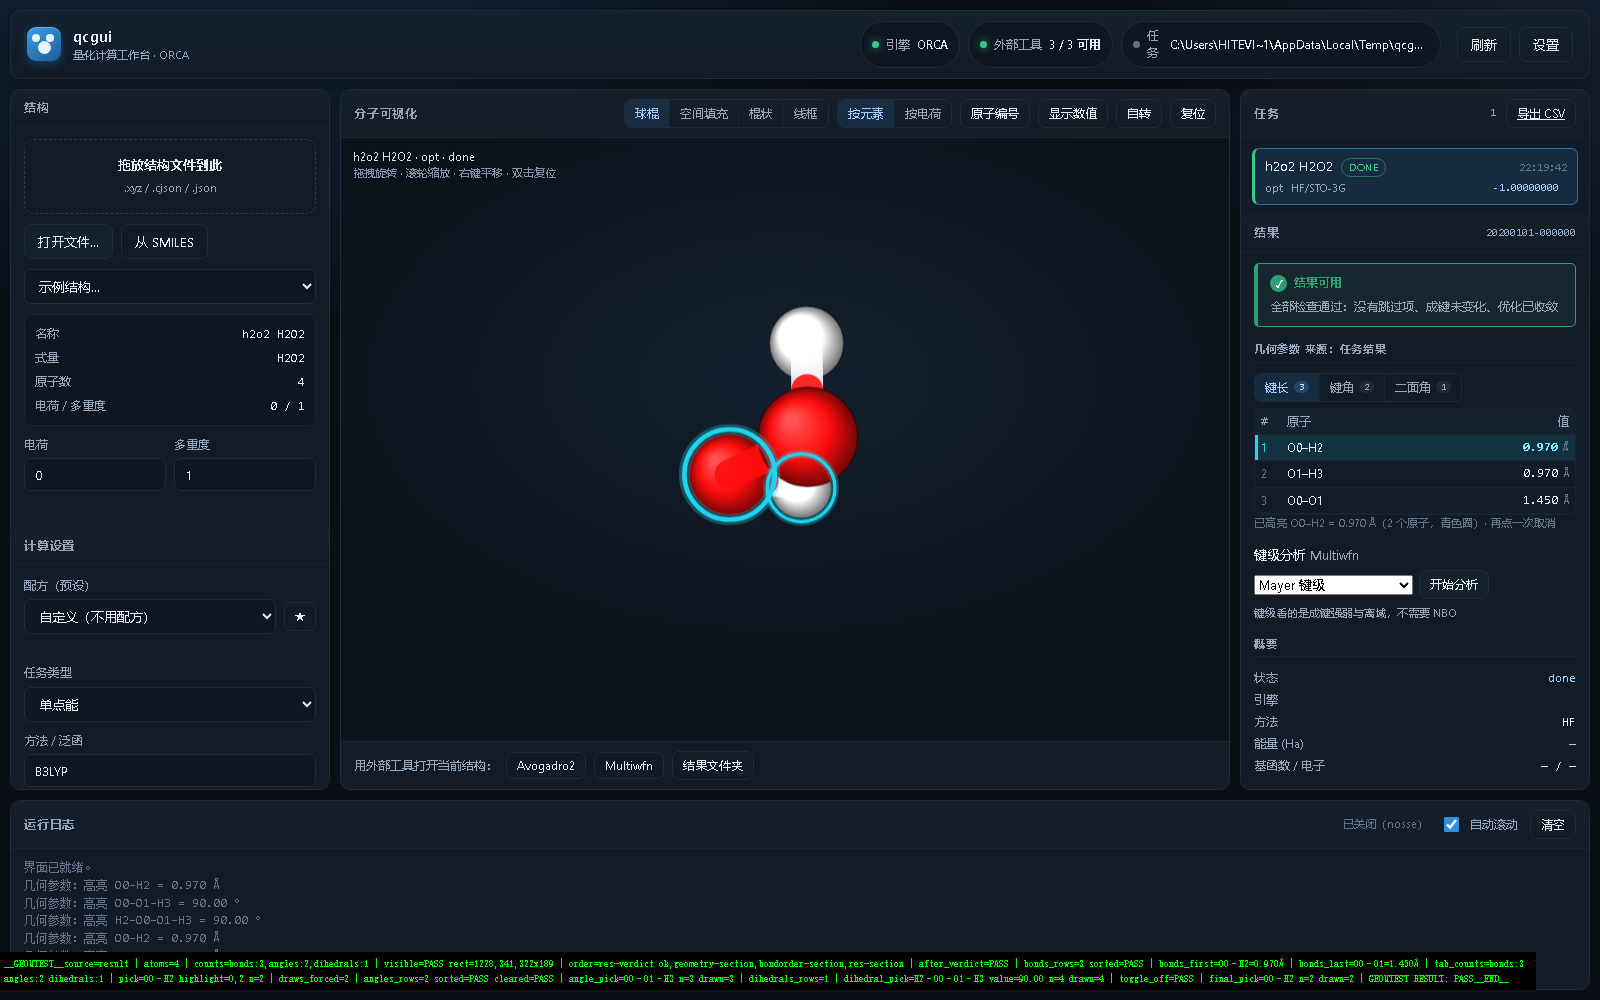
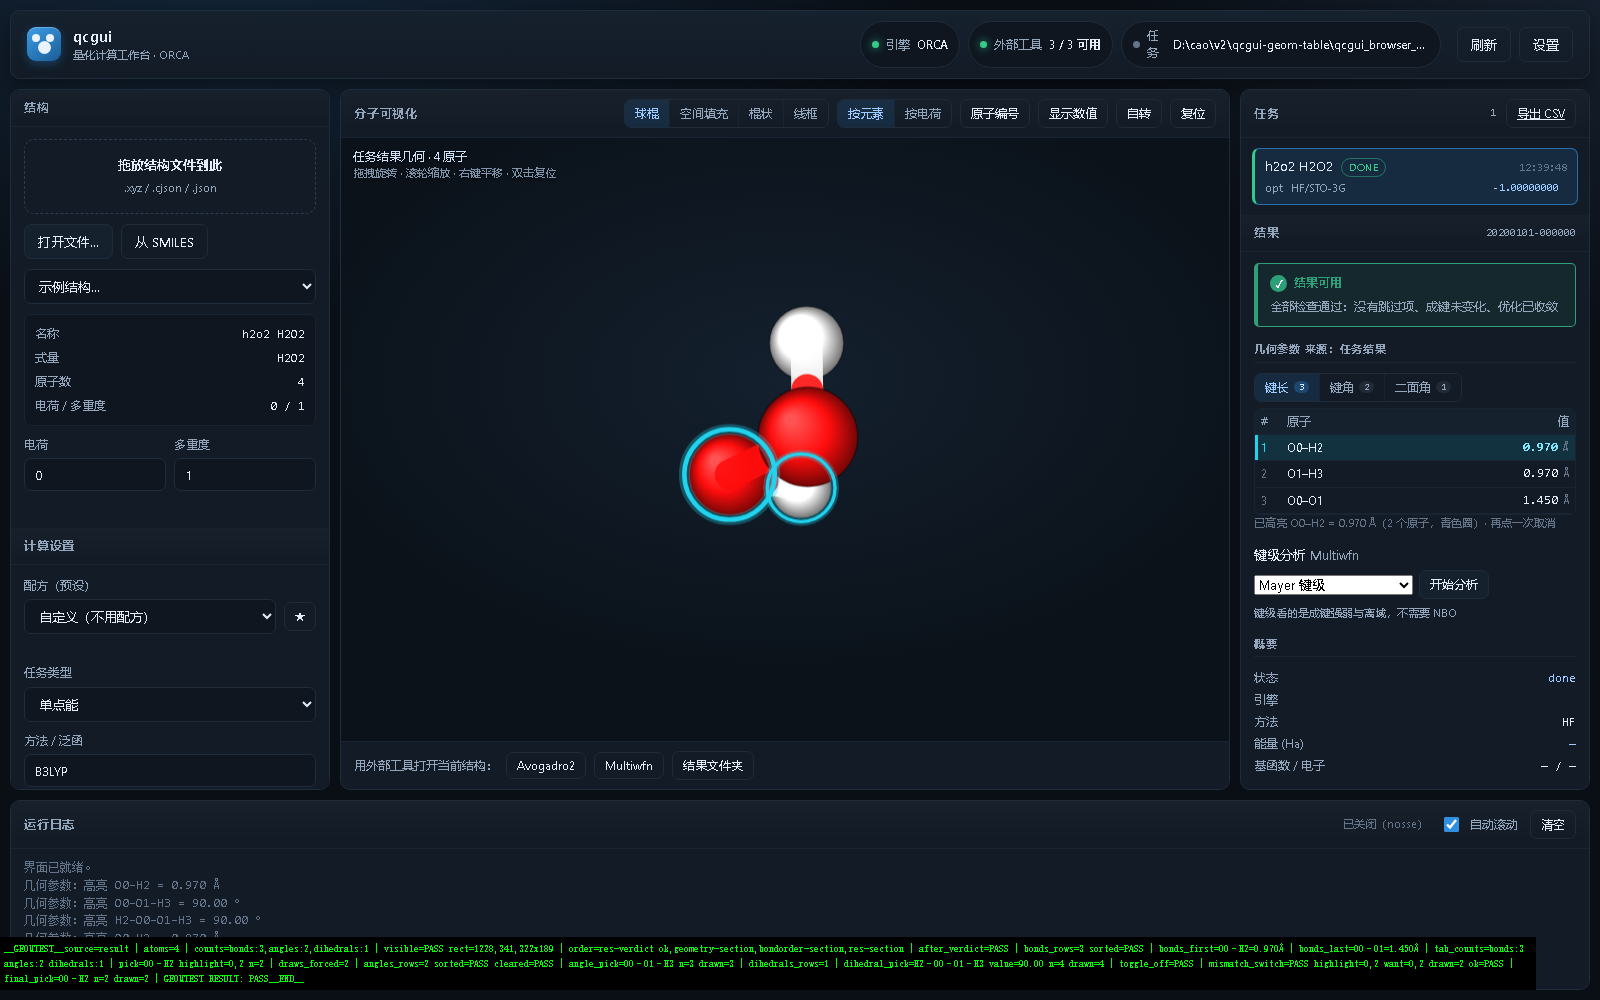
feat(geom-table): 补浏览器测试编码兜底 + 「表/3D 错位」覆盖，重拍截图
恢复提交 f6ad848 里的几何参数表功能本身是完整的（后端 geometry_parameters、
接口 POST /api/geometry/parameters、前端三表格/按值排序/点击高亮、
viewer.highlightAtoms/_drawHighlight 都在），但从未验证过。本次收口修掉
验证中发现的两处问题，不放松任何断言：

- tests/test_web_browser.py：诊断输出加编码兜底。这两条浏览器用例的 print
  里有 Å，Windows 控制台默认 GBK 会抛 UnicodeEncodeError —— 实测会让本应
  通过的用例在断言之前就 ERROR（pytest -s 下必现），看起来像功能坏了。
  同时补上 viewerShowsGeometry 错位守卫的断言（新增覆盖，非放宽）。
- app.js：geomtest 钩子补「表与 3D 不是同一套几何」的检查；最终状态改为
  按状态补点击，保证截图里高亮环真的亮着（原来无条件再点一次会把行点灭）。
- tools/shot_geometry_table.py：用项目自己的 qcgui.configure_stdio() 兜底打印。
- figures/geometry_table.png：按当前代码重拍，图里有三页签计数、按值升序的
  行、以及 3D 里两个青色高亮环 + GEOMTEST RESULT: PASS。

验证方式与结果：

1) pytest tests/test_web_browser.py tests/test_geometry_params.py
   tests/test_viewer_js.py -q  → 34 passed
   （唯一未过的是 test_bond_order_ui_in_real_browser，本机
   PermissionError 写 %LOCALAPPDATA%\qcgui\jobs，属环境问题）

2) 真浏览器关键路径（tests/test_web_browser.py::test_geometry_table_in_real_browser
   / ::test_geometry_table_falls_back_to_the_loaded_structure）：
   counts=bonds:3,angles:2,dihedrals:1 / bonds_rows=3 sorted=PASS /
   draws_forced=2 / dihedral_pick=H2–O0–O1–H3 value=90.00 n=4 drawn=4 /
   toggle_off=PASS / mismatch_switch=PASS ... ok=PASS / GEOMTEST RESULT: PASS

3) 变异验证（证明新增断言有效，不是空转）：把 app.js 里
   `if (!viewerShowsGeometry(source))` 改成 `if (false && ...)` 后重跑，
   得到 mismatch_switch=FAIL highlight=0 want=0,2 drawn=1 → 测试确实报错。

4) 全量回归（$env:PATH 加上 .qcenv\mpi\Library\bin）：
   pytest tests -q → 172 passed, 6 failed, 1 skipped
[…]

Changed region(s): [[0.0, 0.93, 0.9688, 0.992], [0.75, 0.031, 0.875, 0.062], [0.2188, 0.155, 0.25, 0.186]]

diff --git a/qcgui/web/static/app.js b/qcgui/web/static/app.js
@@ -574,9 +574,28 @@ async function runGeometryTableTest() {
       lines.push(`toggle_off=${on > 0 && state.viewer.highlightedAtoms.length === 0 ? 'PASS' : 'FAIL'}`);
     }
 
-    // 最后留在"高亮着"的状态：同一条 URL 用 --screenshot 拍到的就是用户看到的样子
-    const final = clickRow(0);
-    lines.push(`final_pick=${final ? final.dataset.label : 'none'}`
+    // --- 表与 3D 不是同一套几何时，必须先把查看器切过去（否则高亮会指错原子）---
+    // 这是真实会发生的状态：拖过扫描曲线、或停在轨迹某一帧时，查看器里显示的
+    // 并不是 result.geometry。这里把查看器换成一个完全不相干的分子来制造错位，
+    // 点一行后应当看到查看器被切回表的那套几何、且高亮画在**正确的**原子上。
+    state.viewer.setMolecule({ symbols: ['Ar'], coords: [[0, 0, 0]] });
+    if (clickTab('bonds') && readRows().length) {
+      const want = readRows()[0].atoms;
+      clickRow(0);
+      const switched = state.viewer.symbols.length === state.geomSource.symbols.length;
+      const got = state.viewer.highlightedAtoms.join(',');
+      lines.push(`mismatch_switch=${switched ? 'PASS' : 'FAIL'}`
+        + ` highlight=${got} want=${want}`
+        + ` drawn=${state.viewer.highlightDrawCount}`
+        + ` ok=${switched && got === want && state.viewer.highlightDrawCount > 0 ? 'PASS' : 'FAIL'}`);
+    }
+
+    // 最后留在"高亮着"的状态：同一条 URL 用 --screenshot 拍到的就是用户看到的样子。
+    // 上面的错位检查点过一次行，可能刚好把高亮又切回"已取消"，所以按状态补一次
+    // ——不能无条件再点一次，那样反而会把已经亮着的行点灭（截图证据就没了）。
+    if (!state.viewer.highlightedAtoms.length) clickRow(0);
+    const finalRow = section().querySelector('tbody tr.geom-row.active');
+    lines.push(`final_pick=${finalRow ? finalRow.dataset.label : 'none'}`
       + ` n=${state.viewer.highlightedAtoms.length} drawn=${state.viewer.highlightDrawCount}`);
     lines.push('GEOMTEST RESULT: '
       + (lines.some((l) => l.includes('FAIL')) ? 'FAIL' : 'PASS'));

diff --git a/tests/test_web_browser.py b/tests/test_web_browser.py
@@ -448,6 +448,22 @@ def _dump_geomtest(url: str, timeout: int = 180) -> str:
     return match.group(1)
 
 
+def _print_diagnostics(text: str) -> None:
+    """打印几何参数测试的诊断行（``a | b | c`` 转成多行）。
+
+    为什么不能直接 ``print``：这些行里有 ``Å``/``°``，而 Windows 控制台默认是
+    GBK —— 直接打印会抛 ``UnicodeEncodeError``。实测：那会让**一条本该通过的
+    测试在断言之前就 ERROR 掉**（``pytest -s`` 时必然发生），看起来像功能坏了。
+    诊断输出降级成替代字符就行，**断言才是测试的正文**。
+    """
+    block = "    " + "\n    ".join(p.strip() for p in text.split(" | "))
+    try:
+        print(block)
+    except UnicodeEncodeError:
+        encoding = getattr(sys.stdout, "encoding", None) or "utf-8"
+        print(block.encode(encoding, "replace").decode(encoding, "replace"))
+
+
 def test_geometry_table_in_real_browser():
     """「几何参数」表必须在真页面里渲染出来、能点、能高亮 —— 而且看得见。
 
@@ -468,7 +484,7 @@ def test_geometry_table_in_real_browser():
     finally:
         server.close()
 
-    print("    " + "\n    ".join(p.strip() for p in text.split(" | ")))
+    _print_diagnostics(text)
 
     # 期望值直接来自纯几何层 —— 浏览器里看到的必须和后端算的一致
     expected = geometry_parameters(GEOM_FIXTURE["symbols"], GEOM_FIXTURE["coords"])
@@ -503,6 +519,11 @@ def test_geometry_table_in_real_browser():
     assert "angle_pick=" in text and "n=3 drawn=3" in text, text
     assert "dihedral_pick=H2–O0–O1–H3 value=90.00 n=4 drawn=4" in text, text
     assert "toggle_off=PASS" in text, text
+    # 表与 3D 错位时（拖过扫描曲线 / 停在轨迹某帧）点一行：必须先把查看器切到
+    # 表的那套几何，高亮才落在正确的原子上 —— 否则就是"高亮指错原子"那类错误
+    mismatch = next(p.strip() for p in text.split(" | ")
+                    if p.strip().startswith("mismatch_switch="))
+    assert "mismatch_switch=PASS" in mismatch and "ok=PASS" in mismatch, mismatch
     print("    几何参数表在真页面里可用、可见、点击高亮正确")
 
 
@@ -525,7 +546,7 @@ def test_geometry_table_falls_back_to_the_loaded_structure():
     finally:
         server.close()
 
-    print("    " + "\n    ".join(p.strip() for p in text.split(" | ")))
+    _print_diagnostics(text)
 
     symbols, coords = [], []
     lines = Path(path).read_text(encoding="utf-8", errors="replace").splitlines()
@@ -550,6 +571,9 @@ def test_geometry_table_falls_back_to_the_loaded_structure():
     assert f"bonds_rows={len(expected['bonds'])} sorted=PASS" in text, text
     # 点一行同样要高亮并画出来
     assert "draws_forced=" in text and "draws_forced=0" not in text, text
+    mismatch = next(p.strip() for p in text.split(" | ")
+                    if p.strip().startswith("mismatch_switch="))
+    assert "ok=PASS" in mismatch, mismatch
     print(f"    {Path(path).name}: 表由当前载入的结构生成，条数与后端一致")
 
 

diff --git a/tools/shot_geometry_table.py b/tools/shot_geometry_table.py
@@ -34,6 +34,11 @@ DEFAULT_OUT = REPO / "figures" / "geometry_table.png"
 def main(argv: list[str]) -> int:
     out = Path(argv[1]) if len(argv) > 1 else DEFAULT_OUT
     out.parent.mkdir(parents=True, exist_ok=True)
+    # 诊断行里有 Å/°，Windows 控制台默认 GBK 会直接抛 UnicodeEncodeError ——
+    # 截图成功了却因为"打印不出来"而报错，最误导人。用项目自己的兜底。
+    from qcgui import configure_stdio
+
+    configure_stdio()
     browser = find_browser()
     if not browser:
         print("找不到 Chrome/Edge，无法截图")
